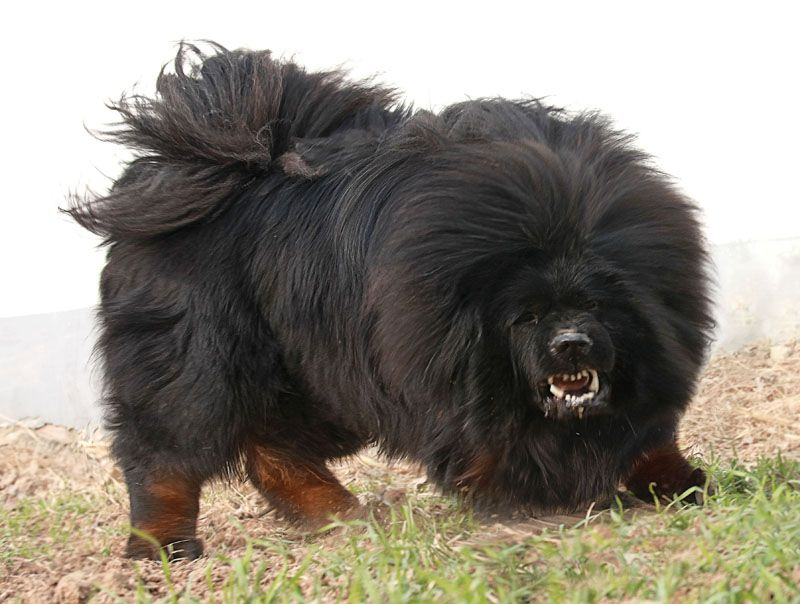
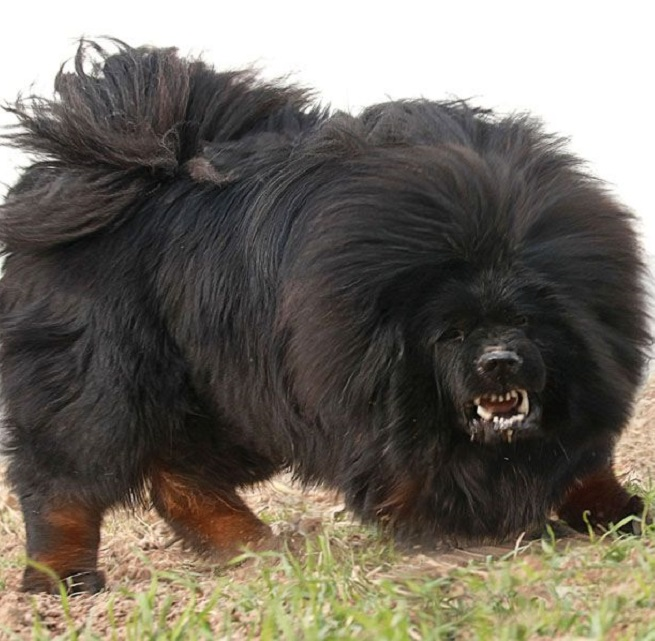
added code to find location of pets adoption also reduce pictures resolution

diff --git a/js/script.js b/js/script.js
@@ -46,18 +46,27 @@ $(".myButton").on("click", function (event) {
     method: "GET",
     data: {
       location: $("#cityInput").val(),
-      limit: 5
+      limit: 10
     },
   }).then(function (response) {
     console.log(response);
-     for (var i = 0; i < 5; + i++){
+     for (var i = 0; i < 10; i++){
 
     var el = $("<div>");
-    el.text(JSON.stringify(response));
-    var name = ("name: " + response.name[i]);
-    var photo = ("pictures: " + response.photos[i]);
-    var address = ("Addresss: " + response.address[i]);
-    el.append(name).append(photo).append(address[i]);
+    // el.text(JSON.stringify(response));
+    var name =  $("<h6>" + ("Name: " + response.organizations[i].name)+ "</h6>");
+    try{
+      
+      var photoURL = response.organizations[i].photos[0].medium;
+      var photo = `<img src="${photoURL}">`
+    }catch(err) {
+      var photo = $("<p>" +  `<img src="./Assets/dog-pictures/41. Bichon Frise.jpg">` + "</p>");
+    }   
+    var address = $("<p>" + ("City: " + response.organizations[i].address.city)+ "</p>");
+    var address1 = $("<p>" + ("Addresss: " + response.organizations[i].address.address1)+ "</p>");
+    var zipCode = $("<p>" + ("ZipCode :" + response.organizations[i].address.postcode) + "</p>");
+    var url = `<p> URL:<a href="${response.organizations[i].url}">${response.organizations[i].url}</a> </p>`;
+    el.append(photo).append(name).append(address).append(address1).append(zipCode).append(url);
     $("#cityList").append(el);
 
      }
@@ -127,25 +136,92 @@ function currentLocation() {
 
 $(".myGps").on("click", function (event) {
   event.preventDefault();
-  console.log("myGps Checking ");
+  // console.log("myGps Checking ");
 
-  var inputCity = $("#destiInput").val()
-  var mapGpsToken = "pk.eyJ1IjoibW9oYW4yMDM2IiwiYSI6ImNrY2R4ajFyMDAwZTAycG53M3g1MjB6dGgifQ.B4Yjcty24OLz9Xmn8-Gj8g";
-  var proxy = "https://cors-anywhere.herokuapp.com/";
-  var queryURL =
-    "https://api.mapbox.com/geocoding/v5/mapbox.places/" + inputCity + ".json?access_token=" + mapGpsToken;
+  // var inputCity = $("#destiInput").val()
+  // var mapGpsToken = "pk.eyJ1IjoibW9oYW4yMDM2IiwiYSI6ImNrY2R4ajFyMDAwZTAycG53M3g1MjB6dGgifQ.B4Yjcty24OLz9Xmn8-Gj8g";
+  // var proxy = "https://cors-anywhere.herokuapp.com/";
+  // var queryURL =
+  //   "https://api.mapbox.com/geocoding/v5/mapbox.places/" + inputCity + ".json?access_token=" + mapGpsToken;
+  // $.ajax({
+  //   url: proxy + queryURL,
+  //   method: "GET",
+  //   // data: {
+  //   //   location: $("#destiInput").val(),      
+  //   // },
+  // }).then(function (response) {
+  //   console.log("Map Response: ");
+  //   console.log(response);
+  //   var dest = $("<div>");
+  //   dest.text(JSON.stringify(response));
+  //   $("#destiList").append(dest);
+
+  // });
+
   $.ajax({
-    url: proxy + queryURL,
-    method: "GET",
-    // data: {
-    //   location: $("#destiInput").val(),      
-    // },
-  }).then(function (response) {
-    console.log("Map Response: ");
-    console.log(response);
-    var dest = $("<div>");
-    dest.text(JSON.stringify(response));
-    $("#destiList").append(dest);
+    url: 'https://freegeoip.app/json/',
+    method: 'GET',
+  }).then(function (res) {
+    mapboxgl.accessToken =
+      'pk.eyJ1IjoibW9oYW4yMDM2IiwiYSI6ImNrY2R4ajFyMDAwZTAycG53M3g1MjB6dGgifQ.B4Yjcty24OLz9Xmn8-Gj8g';
+    var map = new mapboxgl.Map({
+      container: 'map',
+      style: 'mapbox://styles/mapbox/light-v10',
+      center: [-96, 37.8],
+      zoom: 2,
+    });
 
+    map.on('load', function () {
+      map.addSource('points', {
+        type: 'geojson',
+        data: {
+          type: 'FeatureCollection',
+          features: [
+            {
+              // feature for Mapbox DC
+              type: 'Feature',
+              geometry: {
+                type: 'Point',
+                coordinates: [res.longitude, res.latitude],
+              },
+              properties: {
+                title: 'Current Location',
+                icon: 'monument',
+              },
+            },
+            {
+              // feature for Mapbox SF
+              type: 'Feature',
+              geometry: {
+                type: 'Point',
+                coordinates: [-122.414, 37.776],
+              },
+              properties: {
+                title: 'Mapbox SF',
+                icon: 'harbor',
+              },
+            },
+          ],
+        },
+      });
+      map.addLayer({
+        id: 'points',
+        type: 'symbol',
+        source: 'points',
+        layout: {
+          // get the icon name from the source's "icon" property
+          // concatenate the name to get an icon from the style's sprite sheet
+          'icon-image': ['concat', ['get', 'icon'], '-15'],
+          // get the title name from the source's "title" property
+          'text-field': ['get', 'title'],
+          'text-font': ['Open Sans Semibold', 'Arial Unicode MS Bold'],
+          'text-offset': [0, 0.6],
+          'text-anchor': 'top',
+        },
+      });
+    });
   });
+
+
 });
+

diff --git a/index1.html b/index1.html
@@ -31,9 +31,9 @@
     <div class="row">
         <div class="col s12 m4 l3">
             <div class="col-3 searchCol">
-                <h4>Search for a city:</h4>
+                <h4>Enter City, State:</h4>
                 <div class="input-group mb-3">
-                    <input type="text" class="form-control" id="cityInput" placeholder="Enter City Name"
+                    <input type="text" class="form-control" id="cityInput" placeholder="Enter City, State or (ZipCode)"
                         aria-label="Recipient's username" aria-describedby="button-addon2" />
                     <div>
                         <a href="#" id="download-button" class="myButton">Click Here</a>
@@ -61,8 +61,8 @@
 
     <div class="row">
         <div class="carousel">
-            <a class="carousel-item" href="#one!"><img src="./Assets/dog-pictures/50. Bichon Frise.jpg" />
-                <h5>Bichon Frise</h5>
+            <a class="carousel-item" href="#one!"><img src="./Assets/dog-pictures/50. Tosa-on-White.jpg" />
+                <h5>Tosa</h5>
             </a>
             <a class="carousel-item" href="#two!"><img src="./Assets/dog-pictures/27. Timmy.jpg" />
                 <h5>Timmy</h5>
@@ -97,14 +97,14 @@
             <a class="carousel-item" href="#three!"><img src="./Assets/dog-pictures/37. Beagle.jpg" />
                 <h5>Beagle</h5>
             </a>
-            <a class="carousel-item" href="#four!"><img src="./Assets/dog-pictures/38. Yorkshire Terrier.jpg" />
-                <h5>Yorkshire Terrier</h5>
+            <a class="carousel-item" href="#four!"><img src="./Assets/dog-pictures/38. Yorkshire.jpg" />
+                <h5>Yorkshire</h5>
             </a>
-            <a class="carousel-item" href="#five!"><img src="./Assets/dog-pictures/39. Brittany-spaniel.jpg" />
-                <h5>Brittany-spaniel</h5>
+            <a class="carousel-item" href="#five!"><img src="./Assets/dog-pictures/39. Brittany.jpg" />
+                <h5>Brittany</h5>
             </a>
-            <a class="carousel-item" href="#five!"><img src="./Assets/dog-pictures/40. Collie.jpg" />
-                <h5> Collie</h5>
+            <a class="carousel-item" href="#five!"><img src="./Assets/dog-pictures/40. Bichon.jpg" />
+                <h5> Bichon</h5>
             </a>
             <a class="carousel-item" href="#five!"><img src="./Assets/dog-pictures/46. Tibetan Mastiff Dog.jpg" />
                 <h5>Tibetan Mastiff</h5>

diff --git a/css/styles.css b/css/styles.css
@@ -61,6 +61,7 @@ footer.page-footer {
 }
 .gps{
 	float: right;
+	
 }
 .myGps{
 	background-color:#e8796a;
@@ -168,9 +169,12 @@ a:hover {
 #map{
 	float: right;
 }
-.searchCol2{
+.searchCol{
 	
+	float: left;
+	display: block
+		
+}
+.searchCol1{
 	float: right;
-	
-	
 }
